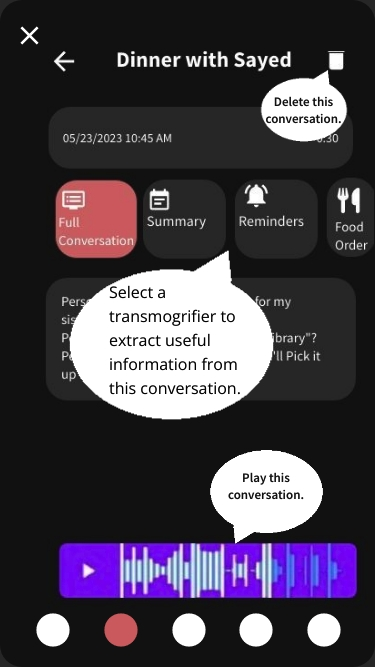
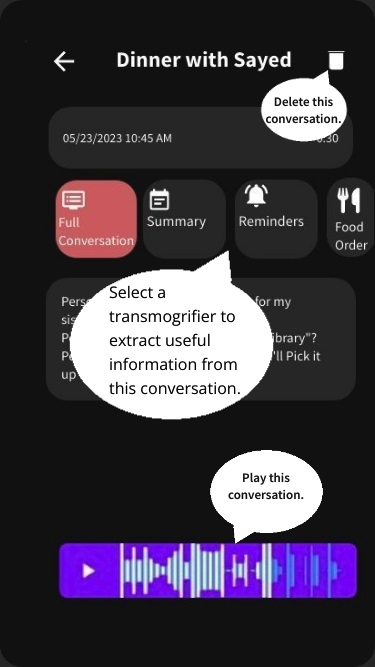
updated guided tour screenshots and added X to top left to exit

diff --git a/talker-mobile-app/lib/screens/guidedTourScreen.dart b/talker-mobile-app/lib/screens/guidedTourScreen.dart
@@ -45,31 +45,39 @@ class _GuidedTourScreenState extends State<GuidedTourScreen> {
               spacing: 20,
               dotHeight: 25,
               dotWidth: 25,
-              activeDotColor: const Color(0xFFCA595D),
+              activeDotColor: Color(0xFFCA595D),
             )),
       );
 
   @override
   Widget build(BuildContext context) {
-    return SafeArea(
-      child: Scaffold(
-        backgroundColor: Colors.black,
-        body: Column(
-          children: [
-            Expanded(
-              child: CarouselSlider(
-                items: buildImages(),
-                carouselController: _controller,
-                options: CarouselOptions(
-                    viewportFraction: 1,
-                    height: double.infinity,
-                    onPageChanged: (index, reason) =>
-                        setState(() => activeIndex = index)),
-              ),
-            ),
-            buildIndicator(),
-          ],
+    return Scaffold(
+      appBar: AppBar(
+        leading: IconButton(
+          onPressed: () => Navigator.pop(context),
+          icon: const Icon(
+            Icons.clear,
+            size: 30,
+          ),
         ),
+        backgroundColor: Colors.black,
+      ),
+      backgroundColor: Colors.black,
+      body: Column(
+        children: [
+          Expanded(
+            child: CarouselSlider(
+              items: buildImages(),
+              carouselController: _controller,
+              options: CarouselOptions(
+                  viewportFraction: 1,
+                  height: double.infinity,
+                  onPageChanged: (index, reason) =>
+                      setState(() => activeIndex = index)),
+            ),
+          ),
+          buildIndicator(),
+        ],
       ),
     );
   }
